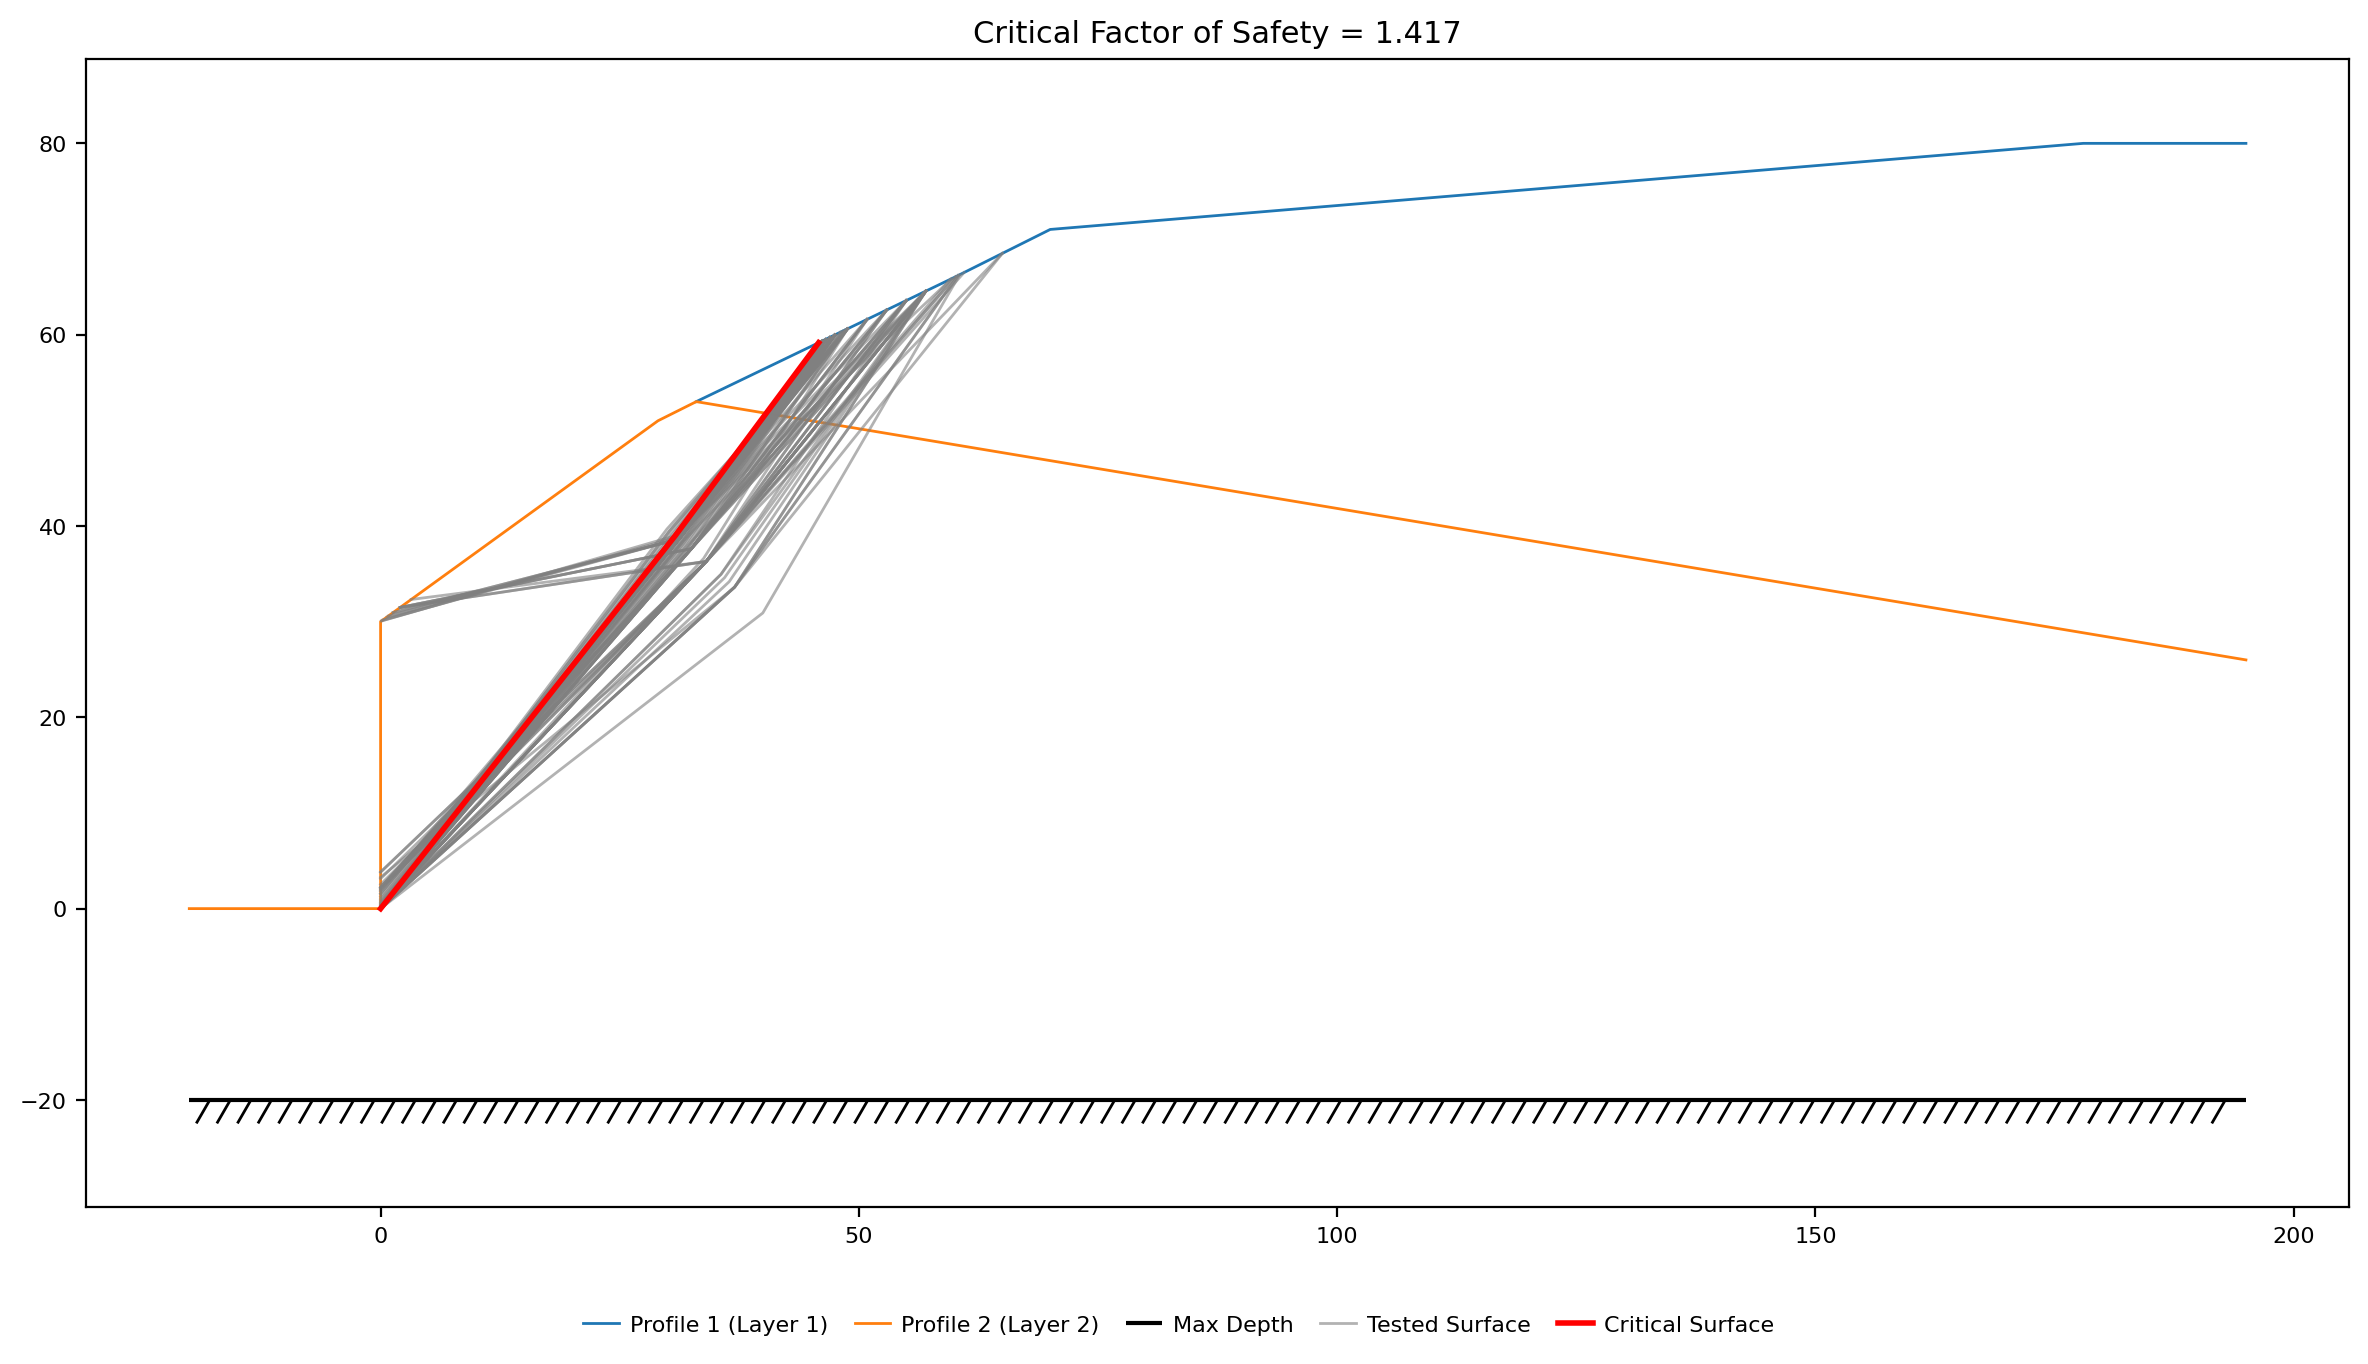
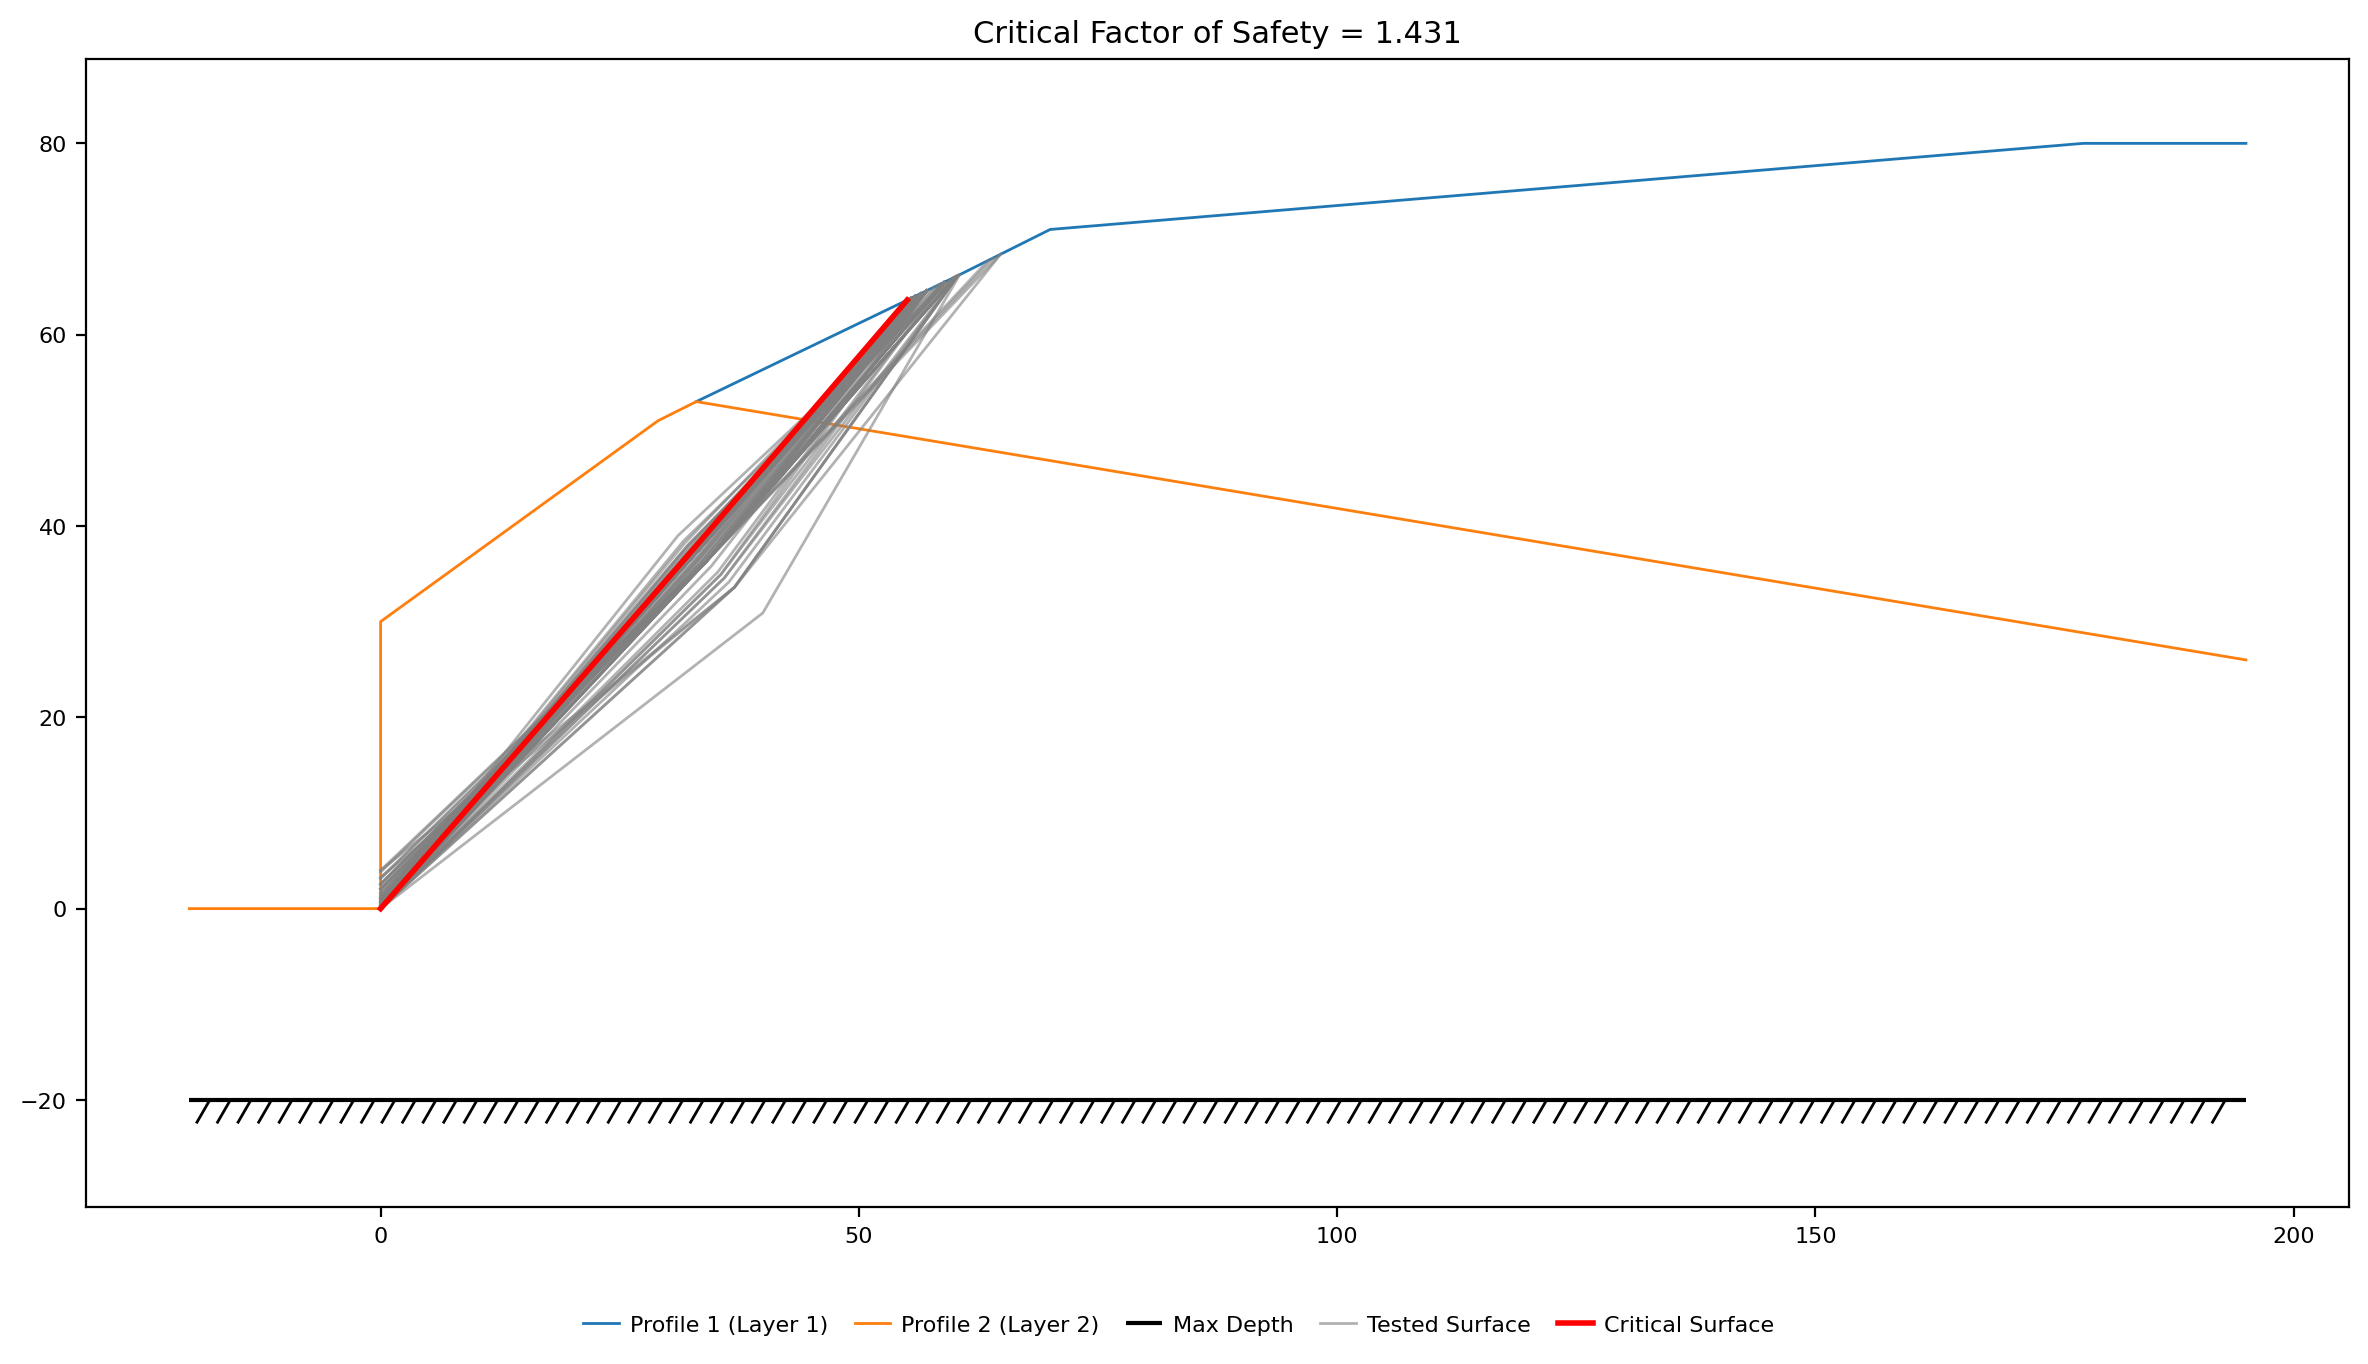
docs+search integration: LEM-9 rides the fixed search; search.md says what ends do
The arc-length endpoint fix and the alpha-probe clamp are in (4e88c03b,
3e918320); this closes the docs half. LEM-9's search figures and every number
downstream of the search re-ran: Janbu 1.431 (was 1.417), the four-method
table 1.431/1.415/1.412/1.412, the searched wedge now exits at (55.05, 63.62)
with 49-deg legs carrying 119,150 lb/ft on an 84.1 ft base, crossings at 5.0
and 12.4 ft, and the support-variant table reads 1.431/1.325/0.921/0.831 with
the pile worth ~0.11 over the anchors. The wedge single-surface values
(1.469/1.439) are evaluation-side and hold. search.md's endpoint paragraph now
describes the real mover: ends step by arc length along the ground (a wall
face included), Fixed pins them, Free and Horiz are equivalent there.

The materials paste legs pin the usage toggles to the app default before
pasting — the paste maps by visible position, so the machine's remembered
toggle state decided whether a 14-column block landed straight.

Claude-Session: https://claude.ai/code/session_01XjjT2aBxw8gY7EFdpoUcpj

diff --git a/test/table_paste_check.py b/test/table_paste_check.py
@@ -757,6 +757,11 @@ def _materials_leg(label, page, model_path, occurrence=0, headers=None):
     model = _load(model_path)
     editor = MaterialsEditor()
     dlg = editor.build(dict(model, materials=[]), None)
+    # Pin the usage toggles to the app default (all shown): the paste maps by
+    # visible column position, so the machine's remembered toggle state would
+    # otherwise decide whether a 14-column block lands straight.
+    for cb in (getattr(dlg, "_toggles", None) or {}).values():
+        cb.setChecked(True)
     _paste(dlg._table, _tsv(printed))
     landed = dict(model, materials=[])
     editor.apply(landed, dlg)

diff --git a/docs/tutorials/lem09_tieback_wall.md b/docs/tutorials/lem09_tieback_wall.md
@@ -402,19 +402,19 @@ plot draws every surface it tried in grey with the one it kept in red:
 
 ![The Janbu search on the wall](images/lem09_search.png){width=1000}
 
-**FS = 1.417**, on a surface that runs from the wall toe at (0, 0) through
-(30.80, 38.98) and out at (45.79, 59.16). The kink barely bends it — the lower leg
-rises at 52° and the upper at 53° — so the search has straightened the manual's
+**FS = 1.431**, on a surface that runs from the wall toe at (0, 0) through
+(32.64, 37.52) and out at (55.05, 63.62). The kink barely bends it — the lower leg
+rises at 49.0° and the upper at 49.4° — so the search has straightened the manual's
 two-part wedge into what is very nearly a single plane from the toe, and pulled
-the exit point 15 ft closer to the wall.
+the exit point 6 ft closer to the wall.
 
 The solution plot draws that surface with its base stresses, the anchors it
 crosses, and the point where it cuts the pile:
 
 ![Janbu on the surface the search found](images/lem09_solution.png){width=1000}
 
-The sliding mass weighs 98,994 lb/ft on a 74.8 ft base. The surface crosses the
-lower anchor 5.1 ft out from the face and the upper one 12.7 ft out, and both
+The sliding mass weighs 119,150 lb/ft on an 84.1 ft base. The surface crosses the
+lower anchor 5.0 ft out from the face and the upper one 12.4 ft out, and both
 deliver their full capacity — 35,570 lb/ft between them, which at 25° below
 horizontal resolves into 32,238 lb/ft holding the mass back and 15,033 lb/ft
 pressing down on it. Neither crossing is anywhere near a bond zone: more than 20 ft
@@ -426,9 +426,9 @@ Each method runs its own search and finds its own critical surface:
 
 | Janbu | Corps | Lowe | Spencer |
 |:---:|:---:|:---:|:---:|
-| 1.417 | 1.393 | 1.396 | 1.395 |
+| 1.431 | 1.415 | 1.412 | 1.412 |
 
-All four land between 1.393 and 1.417. The Ordinary Method of Slices and Bishop's
+All four land between 1.412 and 1.431. The Ordinary Method of Slices and Bishop's
 simplified method are not on the list: both take moments about a circle centre,
 which a polyline does not have, so they refuse the run rather than approximate it.
 Morgenstern–Price is absent for a different reason — its solver fails on the
@@ -447,10 +447,10 @@ to 60:
 **FS = 1.469** with Janbu's correction factor f₀ = 1.024 applied, 1.434 without
 it, and 1.439 with Spencer's method — the values
 [verification problem VP49](../verification/rocscience.md#vp49) records against
-the published solutions. The wedge carries 157,936 lb/ft on a 90.1 ft base, 60%
+the published solutions. The wedge carries 157,936 lb/ft on a 90.1 ft base, 33%
 more soil than the searched surface, and takes the same 35,570 lb/ft from the
 anchors, since a crossing anywhere in the free length gives full capacity. Its
-lower leg leaves the toe at 42° against the search's 52°. A specified surface is a
+lower leg leaves the toe at 42° against the search's 49°. A specified surface is a
 candidate, not an answer, which is why the search comes first.
 
 ### What the tiebacks are worth
@@ -460,23 +460,23 @@ starting points, a separate search with its own critical surface:
 
 ![Janbu on the wall with no tiebacks](images/lem09_solution_bare.png){width=1000}
 
-**FS = 0.862** against 1.417 — an unstable wall. The mechanism moves with the
-anchors, not just the number: without them the critical surface exits right at the
-top of the cut slope, at (32.22, 52.61) rather than 14 ft further back, and cuts
-64,718 lb/ft of soil against 98,994.
+**FS = 0.921** against 1.431 — an unstable wall. The mechanism moves with the
+anchors, not just the number: without them the critical surface exits at
+(41.77, 57.22) on the cut slope, 13 ft closer to the wall, and cuts 87,264 lb/ft
+of soil against 119,150.
 
 Removing supports one at a time separates the two contributions, each answer on
 its own searched surface:
 
 | Support present | Janbu FS |
 |---|:---:|
-| Anchors and pile | 1.417 |
-| Anchors only | 1.287 |
-| Pile only | 0.862 |
-| Neither | 0.751 |
+| Anchors and pile | 1.431 |
+| Anchors only | 1.325 |
+| Pile only | 0.921 |
+| Neither | 0.831 |
 
 The wall does not stand at all without the anchors, and the pile is worth about
-0.13 on top of them.
+0.11 on top of them.
 
 ### Active or passive
 
@@ -519,9 +519,9 @@ This tutorial demonstrated:
   letting XSLOPE divide once.
 - A soldier pile as a separate shear input beside the tensile ones, contributing
   5,900 lb/ft where the surface crosses it.
-- A search settling at **FS = 1.417** on a near-planar wedge from the wall toe,
-  against **1.469** for the specified wedge solved as entered, **0.862** for the
-  same wall searched with the anchors removed, and **0.751** with no support at
+- A search settling at **FS = 1.431** on a near-planar wedge from the wall toe,
+  against **1.469** for the specified wedge solved as entered, **0.921** for the
+  same wall searched with the anchors removed, and **0.831** with no support at
   all.
 - **Appl** measured on a held surface: 1.567 active against 1.331 passive on one
   circle, from an ultimate capacity divided by the factor of safety rather than

diff --git a/docs/lem/search.md b/docs/lem/search.md
@@ -88,7 +88,7 @@ Use these limits when a slope has several competing local minima and the questio
 
 The non-circular search algorithm (`noncircular_search()` in xslope/search.py) takes a fundamentally different approach from the circular search, as it must optimize the positions of multiple control points that define an arbitrary failure surface rather than just optimizing a center and depth. The algorithm begins with a user-defined initial failure surface specified as a sequence of points in the slope_data['non_circ'] array. Each point in this sequence is characterized by its x and y coordinates along with a movement constraint that controls how the point is allowed to move during the optimization process.
 
-The movement constraints are critical to ensuring that the optimized failure surface remains physically realistic and geometrically valid. Points can be designated as "Fixed" (remaining stationary throughout the search), "Horiz" (allowed to move only horizontally), or "Free" (able to move in any direction that reduces the factor of safety). The endpoints of the failure surface have special handling—they are constrained to remain on the ground surface, with only their x-coordinates varying. When an endpoint moves horizontally, its y-coordinate is automatically updated by finding the intersection of a vertical line at the new x-position with the ground surface. This ensures that the failure surface always properly intersects the slope face at both ends.
+The movement constraints are critical to ensuring that the optimized failure surface remains physically realistic and geometrically valid. Points can be designated as "Fixed" (remaining stationary throughout the search), "Horiz" (allowed to move only horizontally), or "Free" (able to move in any direction that reduces the factor of safety). The endpoints of the failure surface have special handling: a `Fixed` end vertex is pinned like any other fixed point, and a movable one is constrained to the ground surface itself — the search steps it by arc length *along* the ground polyline, so an end walks the surface it daylights on, including up or down a vertical face such as a wall. `Free` and `Horiz` are equivalent on an end vertex, since along-the-ground is the only admissible direction there. This ensures that the failure surface always properly intersects the slope at both ends.
 
 The optimization algorithm employs a coordinate descent strategy, systematically attempting to move each point to reduce the overall factor of safety. During each iteration, the algorithm cycles through all points in the failure surface, and for each movable point, it tests movements in both the positive and negative directions. For points constrained to horizontal movement, these directions are simply left and right displacements. For free points, however, the algorithm implements a more sophisticated movement strategy: it moves each free point perpendicular to the local tangent of the failure surface. This perpendicular movement is calculated by finding the tangent vector between the point's neighbors, rotating it 90 degrees, and normalizing it to the current movement distance. This approach naturally tends to smooth out irregularities in the surface while allowing it to deform toward lower factors of safety.
 
